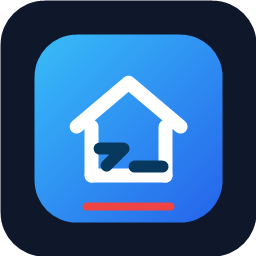
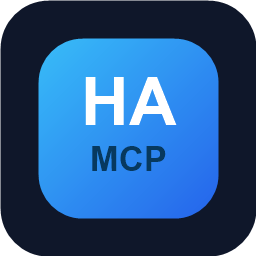
Expand MCP compatibility surface

diff --git a/ha_admin_mcp/src/server.py b/ha_admin_mcp/src/server.py
@@ -23,7 +23,7 @@ from pathlib import Path
 from typing import Any
 
 ADDON_OPTIONS = Path("/data/options.json")
-APP_VERSION = "0.1.35"
+APP_VERSION = "0.1.36"
 CONFIG_ROOT = Path("/config")
 DEFAULT_BACKUP_DIR = Path("/backup/ha-admin-mcp")
 AUDIT_LOG = DEFAULT_BACKUP_DIR / "audit.log"
@@ -31,6 +31,8 @@ MAX_READ_BYTES = 20_000_000
 SUPPORTED_PROTOCOL_VERSIONS = {"2025-06-18", "2025-03-26", "2024-11-05"}
 S6_ENV_DIR = Path("/run/s6/container_environment")
 MCP_PATH = "/api/mcp"
+MCP_COMPAT_PATH = "/mcp"
+MCP_PATHS = {MCP_PATH, MCP_COMPAT_PATH}
 LOG_LEVEL = "info"
 DANGEROUS_PATHS = {"/", "/config", "/backup", "/data", "/share", "/ssl", "/addons", "/usr", "/bin", "/sbin", "/etc", "/root", "/var"}
 READ_ONLY_HINTS = ("get", "list", "read", "search", "hash", "stat", "tail", "check", "render", "overview", "summary")
@@ -1469,6 +1471,13 @@ UPSTREAM_HA_MCP_TOOL_NAMES = [
     "ha_get_overview",
     "ha_get_state",
     "ha_search",
+    "ha_search_entities",
+    "ha_deep_search",
+    "ha_search_tools",
+    "ha_call_read_tool",
+    "ha_call_write_tool",
+    "ha_call_delete_tool",
+    "ha_get_skill_guide",
     "ha_bulk_control",
     "ha_call_event",
     "ha_call_service",
@@ -1521,6 +1530,22 @@ UPSTREAM_COMPAT_TOOL_SCHEMAS = [
             "dry_run": {"type": "boolean"},
             "force": {"type": "boolean"},
             "expected_hash": {"type": "string"},
+            "event_type": {"type": "string"},
+            "event": {"type": "string"},
+            "url": {"type": "string"},
+            "resource_id": {"type": "string"},
+            "resource": {"type": "object"},
+            "type": {"type": "string"},
+            "operations": {"type": "array", "items": {"type": "object"}},
+            "fields": {"type": "array", "items": {"type": "string"}},
+            "detailed": {"type": "boolean"},
+            "latest": {"type": "boolean"},
+            "include_trace": {"type": "boolean"},
+            "run_id": {"type": "string"},
+            "dashboard_id": {"type": "string"},
+            "arguments": {"type": "object"},
+            "skill": {"type": "string"},
+            "file": {"type": "string"},
         },
         [],
     )
@@ -2047,7 +2072,7 @@ def get_target_identity() -> dict[str, Any]:
     supervisor = supervisor_request("GET", "/supervisor/info")
     host = supervisor_request("GET", "/host/info")
     return {
-        "app": {"name": "ha-admin-mcp", "version": APP_VERSION, "endpoint_path": MCP_PATH},
+        "app": {"name": "ha-admin-mcp", "version": APP_VERSION, "endpoint_path": MCP_PATH, "endpoint_paths": sorted(MCP_PATHS)},
         "core": core.get("data", core) if isinstance(core, dict) else core,
         "supervisor": supervisor.get("data", supervisor) if isinstance(supervisor, dict) else supervisor,
         "host": host.get("data", host) if isinstance(host, dict) else host,
@@ -2675,6 +2700,59 @@ def call_upstream_compat_tool(name: str, args: dict[str, Any]) -> Any:
     if name == "ha_search":
         query = str(args.get("query") or "")
         return {"entities": search_entities(query, int(args.get("limit") or 20)), "tools": search_tools(query, 10)}
+    if name == "ha_search_entities":
+        query = str(args.get("query") or args.get("name") or "")
+        limit = int(args.get("limit") or 50)
+        domain = args.get("domain") or args.get("domain_filter")
+        payload = search_entities(query, limit * 2 if domain else limit)
+        results = payload.get("entities", [])
+        if domain:
+            results = [row for row in results if str(row.get("entity_id", "")).split(".", 1)[0] == str(domain)]
+        return {"entities": results[:limit], "count": len(results[:limit])}
+    if name == "ha_deep_search":
+        query = str(args.get("query") or "")
+        limit = int(args.get("limit") or 50)
+        return {
+            "entities": search_entities(query, limit),
+            "config": search_active_config({"query": query, "limit": limit}) if query else [],
+            "storage": search_common_storage(query, limit) if query else [],
+            "files": search_files({"path": str(CONFIG_ROOT), "query": query, "recursive": True, "limit": limit}) if query else [],
+            "tools": search_tools(query, 20),
+        }
+    if name == "ha_search_tools":
+        return search_tools(str(args.get("query") or ""), int(args.get("limit") or 20))
+    if name in ("ha_call_read_tool", "ha_call_write_tool", "ha_call_delete_tool"):
+        target = args.get("name") or args.get("tool")
+        if not target:
+            raise ValueError("name is required")
+        target_name = str(target)
+        if target_name in {name, "ha_call_read_tool", "ha_call_write_tool", "ha_call_delete_tool"}:
+            raise ValueError("Refusing recursive proxy tool call")
+        lower = target_name.lower()
+        if name == "ha_call_read_tool" and not any(hint in lower for hint in READ_ONLY_HINTS):
+            raise ValueError(f"{target_name} is not obviously read-only; use ha_call_write_tool or the tool directly")
+        if name == "ha_call_delete_tool" and not any(hint in lower for hint in ("delete", "remove")):
+            raise ValueError(f"{target_name} is not obviously delete/remove; use ha_call_write_tool or the tool directly")
+        return call_tool(target_name, args.get("arguments") or {})
+    if name == "ha_get_skill_guide":
+        return {
+            "note": "This app exposes the upstream ha_get_skill_guide name. Use the listed built-in prompts and tool groups for the same job in this full-access app.",
+            "requested_skill": args.get("skill"),
+            "requested_file": args.get("file"),
+            "prompts": PROMPTS,
+            "recommended_tools": [
+                "search_tools",
+                "ha_search_tools",
+                "diagnostic_bundle",
+                "check_config_and_reload",
+                "live_lovelace_find_cards",
+                "live_lovelace_patch_card",
+                "search_active_config",
+                "search_storage_key",
+                "read_file_window",
+                "run_command",
+            ],
+        }
     if name == "ha_get_overview":
         return system_overview()
     if name == "ha_get_system_health":
@@ -2731,7 +2809,13 @@ def call_upstream_compat_tool(name: str, args: dict[str, Any]) -> Any:
         entity_id = identifier
         if not entity_id:
             raise ValueError("entity_id or identifier is required")
-        return get_automation_traces({"entity_id": entity_id, "latest": bool(args.get("latest")), "include_trace": bool(args.get("include_trace")), "limit": int(args.get("limit") or 100)})
+        return get_automation_traces({
+            "entity_id": entity_id,
+            "run_id": args.get("run_id"),
+            "latest": bool(args.get("latest")),
+            "include_trace": bool(args.get("include_trace")),
+            "limit": int(args.get("limit") or 100),
+        })
     if name == "ha_get_operation_status":
         return {"core": supervisor_request("GET", "/core/info"), "supervisor": supervisor_request("GET", "/supervisor/info")}
     if name == "ha_get_addon":
@@ -2973,16 +3057,17 @@ def search_files(args: dict[str, Any]) -> list[dict[str, Any]]:
     recursive = bool(args.get("recursive", True))
     limit = int(args.get("limit") or 100)
     max_file_bytes = int(args.get("max_file_bytes") or 2_000_000)
-    iterator = root.rglob("*") if recursive else root.iterdir()
+    iterator = [root] if root.is_file() else root.rglob("*") if recursive else root.iterdir()
     matches: list[dict[str, Any]] = []
     for path in iterator:
         if len(matches) >= limit:
             break
         try:
-            if filename and not fnmatch.fnmatch(path.name, filename):
+            filename_match = file_matches_pattern(path, root, str(filename)) if filename else False
+            if filename and not filename_match:
                 continue
             if filename and not query:
-                matches.append({"path": str(path), "match": "filename"})
+                matches.append(file_match_row(path, root, "filename"))
                 continue
             if not query or not path.is_file() or path.stat().st_size > max_file_bytes:
                 continue
@@ -2990,11 +3075,39 @@ def search_files(args: dict[str, Any]) -> list[dict[str, Any]]:
                 continue
             for line_number, line in enumerate(path.read_text(errors="replace").splitlines(), 1):
                 if query in line.lower():
-                    matches.append({"path": str(path), "line": line_number, "text": line[:500]})
+                    row = file_match_row(path, root, "content")
+                    row.update({"line": line_number, "text": line[:500], "filename_match": filename_match})
+                    matches.append(row)
                     break
         except OSError as err:
             matches.append({"path": str(path), "error": str(err)})
     return matches
+
+
+def file_match_row(path: Path, root: Path, match: str) -> dict[str, Any]:
+    row = {"path": str(path), "name": path.name, "match": match}
+    try:
+        row["relative_path"] = str(path.resolve().relative_to(root.resolve())).replace("\\", "/")
+    except ValueError:
+        pass
+    return row
+
+
+def file_matches_pattern(path: Path, root: Path, pattern: str) -> bool:
+    normalized = pattern.replace("\\", "/").lower()
+    try:
+        relative = str(path.resolve().relative_to(root.resolve())).replace("\\", "/").lower()
+    except ValueError:
+        relative = str(path).replace("\\", "/").lower()
+    candidates = {
+        path.name.lower(),
+        relative,
+        str(path).replace("\\", "/").lower(),
+    }
+    patterns = {normalized}
+    if "/" not in normalized:
+        patterns.add(f"*/{normalized}")
+    return any(fnmatch.fnmatch(candidate, test) for candidate in candidates for test in patterns)
 
 
 def backup_path(path: Path, label: str | None) -> dict[str, Any]:
@@ -3469,6 +3582,37 @@ def search_storage_key(key: str, query: str, limit: int) -> list[dict[str, Any]]
             if len(matches) >= limit:
                 break
     return matches
+
+
+def search_common_storage(query: str, limit: int) -> dict[str, Any]:
+    keys = [
+        "core.entity_registry",
+        "core.device_registry",
+        "core.config_entries",
+        "core.area_registry",
+        "core.floor_registry",
+        "core.label_registry",
+        "core.restore_state",
+        "lovelace",
+        "lovelace_resources",
+    ]
+    rows = []
+    per_key_limit = max(1, min(limit, 20))
+    for key in keys:
+        if len(rows) >= limit:
+            break
+        try:
+            matches = search_storage_key(key, query, per_key_limit)
+        except FileNotFoundError:
+            continue
+        except Exception as err:
+            rows.append({"key": key, "error": str(err)})
+            continue
+        for match in matches:
+            rows.append({"key": key, **match})
+            if len(rows) >= limit:
+                break
+    return {"query": query, "count": len(rows), "matches": rows}
 
 
 def compact_value(value: Any, max_chars: int = 500) -> Any:
@@ -4876,6 +5020,10 @@ def completion_result() -> dict[str, Any]:
     return {"completion": {"values": [], "total": 0, "hasMore": False}}
 
 
+def is_mcp_path(path: str) -> bool:
+    return urllib.parse.urlsplit(path).path in MCP_PATHS
+
+
 class Handler(BaseHTTPRequestHandler):
     server_version = "HAAdminMCP/0.1"
 
@@ -4883,13 +5031,13 @@ class Handler(BaseHTTPRequestHandler):
         if self.path == "/health":
             self.write_json({"ok": True, "dangerous": True})
             return
-        if self.path == MCP_PATH:
+        if is_mcp_path(self.path):
             self.send_error(405, "SSE streams are not implemented")
             return
         self.send_error(404)
 
     def do_POST(self) -> None:
-        if self.path != MCP_PATH:
+        if not is_mcp_path(self.path):
             self.send_error(404)
             return
         if not self.authorized():
@@ -4913,7 +5061,7 @@ class Handler(BaseHTTPRequestHandler):
         self.write_json(response, headers=extra_headers)
 
     def do_DELETE(self) -> None:
-        if self.path == MCP_PATH:
+        if is_mcp_path(self.path):
             self.send_response(202)
             self.send_header("Content-Length", "0")
             self.end_headers()

diff --git a/ha_admin_mcp/README.md b/ha_admin_mcp/README.md
@@ -7,7 +7,6 @@
 ### Privileged MCP control surface for Home Assistant
 
 [![Validate](https://img.shields.io/github/actions/workflow/status/Wheemer/ha-admin-mcp-app/validate.yml?branch=master&style=for-the-badge&logo=github&logoColor=white&label=VALIDATE&labelColor=555555)](https://github.com/Wheemer/ha-admin-mcp-app/actions/workflows/validate.yml)
-[![Add app repository](https://my.home-assistant.io/badges/supervisor_add_addon_repository.svg)](https://my.home-assistant.io/redirect/supervisor_add_addon_repository/?repository_url=https%3A%2F%2Fgithub.com%2FWheemer%2Fha-admin-mcp-app)
 
 </div>
 
@@ -21,12 +20,30 @@ Install this only if you intentionally want a remote automation client such as C
 
 Do not expose this app to the internet. Do not run it on a shared or untrusted Home Assistant instance. Treat access to this endpoint like root access to Home Assistant.
 
+## Installation
+
+[![Open your Home Assistant instance and add this app repository.](https://my.home-assistant.io/badges/supervisor_add_addon_repository.svg)](https://my.home-assistant.io/redirect/supervisor_add_addon_repository/?repository_url=https%3A%2F%2Fgithub.com%2FWheemer%2Fha-admin-mcp-app)
+
+If the button does not work, add this repository manually:
+
+```text
+https://github.com/Wheemer/ha-admin-mcp-app
+```
+
+Install **HA Admin MCP** from the app store, review the options, then start it manually.
+
 ## Endpoint
 
 The app exposes a JSON-RPC MCP endpoint:
 
 ```text
 POST http://HOME_ASSISTANT_HOST:8124/api/mcp
+```
+
+It also accepts the standard upstream-compatible path:
+
+```text
+POST http://HOME_ASSISTANT_HOST:8124/mcp
 ```
 
 If `admin_token` is set, pass it as:

diff --git a/README.md b/README.md
@@ -7,7 +7,6 @@
 ### Privileged MCP control surface for Home Assistant
 
 [![Validate](https://img.shields.io/github/actions/workflow/status/Wheemer/ha-admin-mcp-app/validate.yml?branch=master&style=for-the-badge&logo=github&logoColor=white&label=VALIDATE&labelColor=555555)](https://github.com/Wheemer/ha-admin-mcp-app/actions/workflows/validate.yml)
-[![Add app repository](https://my.home-assistant.io/badges/supervisor_add_addon_repository.svg)](https://my.home-assistant.io/redirect/supervisor_add_addon_repository/?repository_url=https%3A%2F%2Fgithub.com%2FWheemer%2Fha-admin-mcp-app)
 
 </div>
 
@@ -60,6 +59,12 @@ Default endpoint:
 
 ```text
 POST http://HOME_ASSISTANT_HOST:8124/api/mcp
+```
+
+The app also accepts the standard upstream-compatible path:
+
+```text
+POST http://HOME_ASSISTANT_HOST:8124/mcp
 ```
 
 If `admin_token` is configured, send it as: